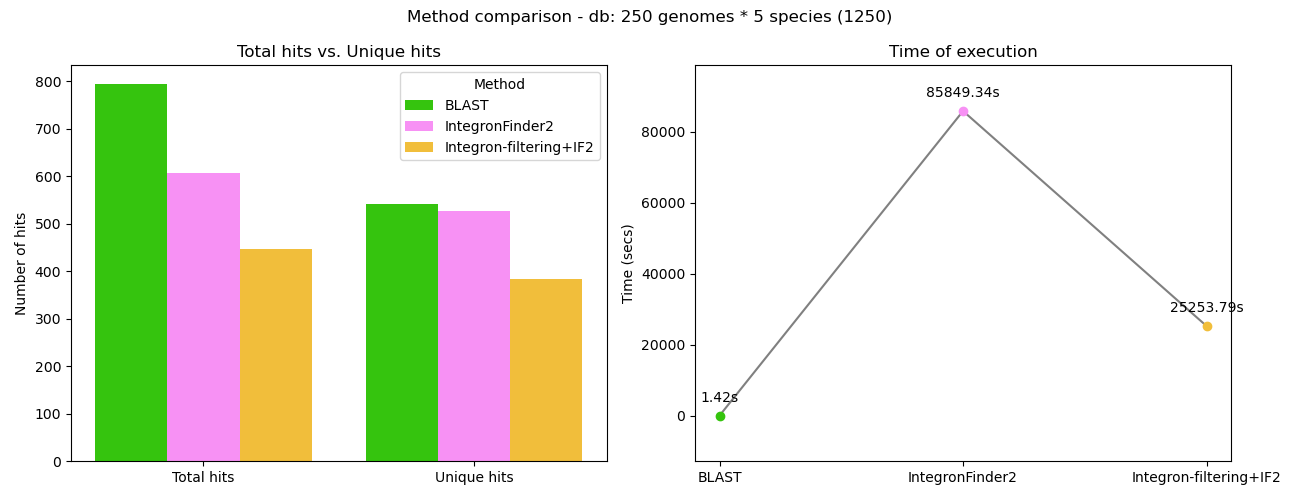
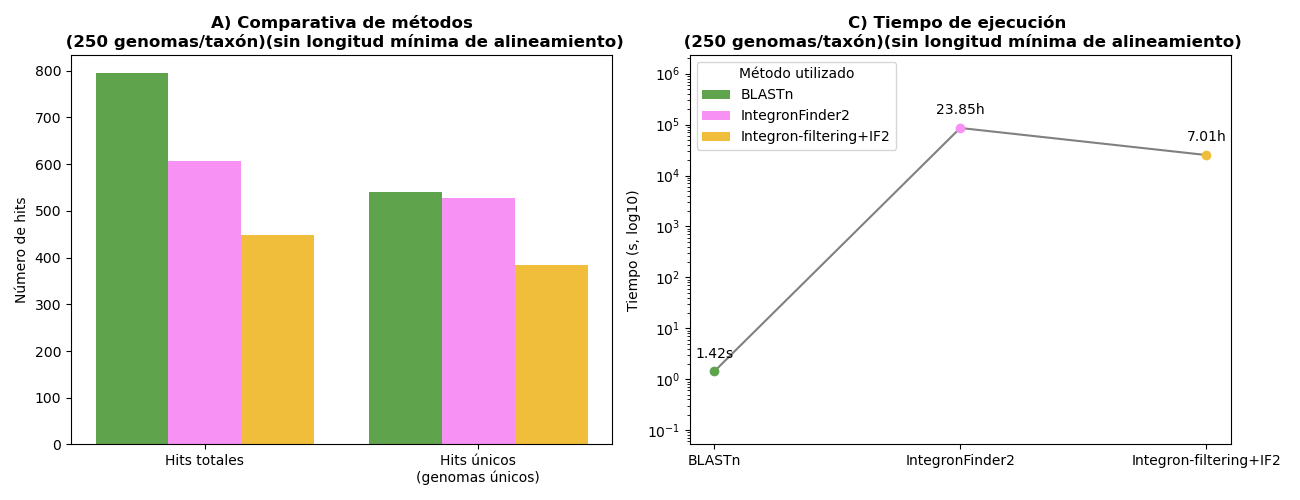
changes to fix methcomparison plot + hits overlap plot

diff --git a/scripts/plot/plotting.py b/scripts/plot/plotting.py
@@ -173,7 +173,7 @@ def plot_evalue_thresholds(dfs, times,
             n_hits.append(evalue_mask.sum()) # Counts the number of hits 
             n_unique.append(df.loc[evalue_mask, "seq_id"].nunique()) # Counts the number of seq_id 
 
-        label = f"{changing_query_labels[query]} - {times[query]:.2f} secs"
+        label = f"{changing_query_labels[query]} - {times[query]:.2f} s"
         axes[0].plot(evalues, n_hits, label = label, color = color)
         axes[1].plot(evalues, n_unique, label = label, color = color)
 
@@ -191,8 +191,10 @@ def plot_evalue_thresholds(dfs, times,
 
 #------------------------ Function to plot the comparison between methods
 def plot_hits_comparison(summary, total_times,
-                         colors = ["#35C40E", "#F791F4", "#F1BE3B"],
-                         title = "Method comparison", outdir = "results/plots",
+                         colors = ["#60A34D", "#F791F4", "#F1BE3B"],
+                         title = ["Comparativa de métodos",
+                                  "Tiempo de ejecución"], 
+                         outdir = "results/plots",
                          filename = "method_comparison.png"):
     """
     Saves a plot comparing the total hits, unique hits, and execution times across three methods.
@@ -204,7 +206,7 @@ def plot_hits_comparison(summary, total_times,
     total_times (dict): A dictionary where keys are the names of the methods and
                         values are the execution times.
     colors (list, optional): List of colors for each method.
-    title (str, optional): The title of the plot.
+    title (list, optional): List of titles of the plot.
     outdir (str, optional): The directory where the plot will be saved.
     filename (str, optional): The name of the file where the plot will be saved.
     """
@@ -241,10 +243,11 @@ def plot_hits_comparison(summary, total_times,
                     label = m, color = dict_colors[m])
     # Labels, titles and axes
     axes[0].set_xticks(x)
-    axes[0].set_xticklabels(["Total hits", "Unique hits"])
-    axes[0].set_ylabel("Number of hits")
-    axes[0].set_title("Total hits vs. Unique hits")
-    axes[0].legend(title = "Method")
+    axes[0].set_xticklabels(["Hits totales", "Hits únicos\n(genomas únicos)"], fontsize = 10)
+    axes[0].set_ylabel("Número de hits", fontsize = 10)
+    axes[0].set_title(f"{title[0]}", fontweight = "bold",
+                      fontsize = 12)
+
 
     # Subplot 2: "Time of execution"
     # Background plot to plot times
@@ -252,19 +255,33 @@ def plot_hits_comparison(summary, total_times,
     for i, m in enumerate(methods):
         # Plot time of each method
         axes[1].plot(i, times[i], "o", color = dict_colors[m])
+        unit = "s"
+        value = times[i]
         # Annotate the time of each method
-        axes[1].annotate(f"{times[i]:.2f}s", (i, times[i]), 
+        if value >= 60:
+            value = value / 60
+            unit = "min"
+        if unit == "min" and value >= 60:
+            value = value / 60
+            unit = "h"
+
+        axes[1].annotate(f"{value:.2f}{unit}", (i, times[i]), 
                          textcoords = "offset points", xytext = (0, 10),
                           ha="center")
     
     # Labels, titles and axes
+    axes[1].set_yscale("log") # Logarithmic Y axis
     axes[1].set_xticks(range(n))
     axes[1].set_xticklabels(methods)
-    axes[1].set_ylabel("Time (secs)")
-    axes[1].set_title("Time of execution")
-    axes[1].margins(y=0.15)  # deja hueco arriba para las anotaciones
-
-    plt.suptitle(title) # Set the principal title
+    axes[1].set_ylabel("Tiempo (s, log10)")
+    axes[1].set_title(f"C) Tiempo de ejecución {title[1]}", fontweight = "bold",
+                      fontsize = 12)
+    axes[1].margins(y=0.3)  # Room above for the annotations
+    legend = [] # Legend
+    for m in methods:
+        legend.append(Patch(facecolor = dict_colors[m], label = m))
+    axes[1].legend(handles = legend,
+                   title = "Método utilizado")
 
     plt.tight_layout()# Adjusts the layout to avoid overlapping
     # Saves the plot
@@ -276,8 +293,8 @@ def plot_hits_comparison(summary, total_times,
 
 #------------------------ Function to analyze the overlapping
 def plot_hits_overlap(sets_dict, 
-                      colors = ["#35C40E", "#F791F4", "#F1BE3B"], 
-                      title = "Hits overlapping", outdir = "results/plots",
+                      colors = ["#60A34D", "#F791F4", "#F1BE3B"],
+                      title = "Solapamiento de hits únicos entre métodos", outdir = "results/plots",
                       filename = "hits_overlap.png"):
     """
     Saves a plot showing the overlapping of hits across three methods using a Venn diagram.
@@ -305,17 +322,16 @@ def plot_hits_overlap(sets_dict,
           # Plot with the regions with the same size
           layout_algorithm = DefaultLayoutAlgorithm(fixed_subset_sizes = (1,) *7)) # 7 regions
     
-    handles = [] # List to store the legend handles
+    legend = [] # List to store the legend handles
     for color, meth, set in zip(colors, names, sets): # Iterate over each method and its corresponding color
         # Create a patch for the legend with the corresponding color and label
-        handle = Patch(facecolor = color, alpha = 0.5, 
-                       label = f"{meth} (n={len(set)})")
-        handles.append(handle)
+        legend.append(Patch(facecolor = color, alpha = 0.5, 
+                       label = f"{meth} (n={len(set)})"))
 
     # Add the legend to the plot with the created handles
-    ax.legend(handles = handles, loc = "upper right")
+    ax.legend(handles = legend, loc = "upper right", title = "Método utilizado")
 
-    ax.set_title(title) # Set the title of the plot
+    ax.set_title(title, fontweight = "bold", fontsize = 12) # Set the title of the plot
     plt.tight_layout() # Adjusts the layout to avoid overlapping
     plt.savefig(os.path.join(outdir, filename))
     plt.close(fig)
